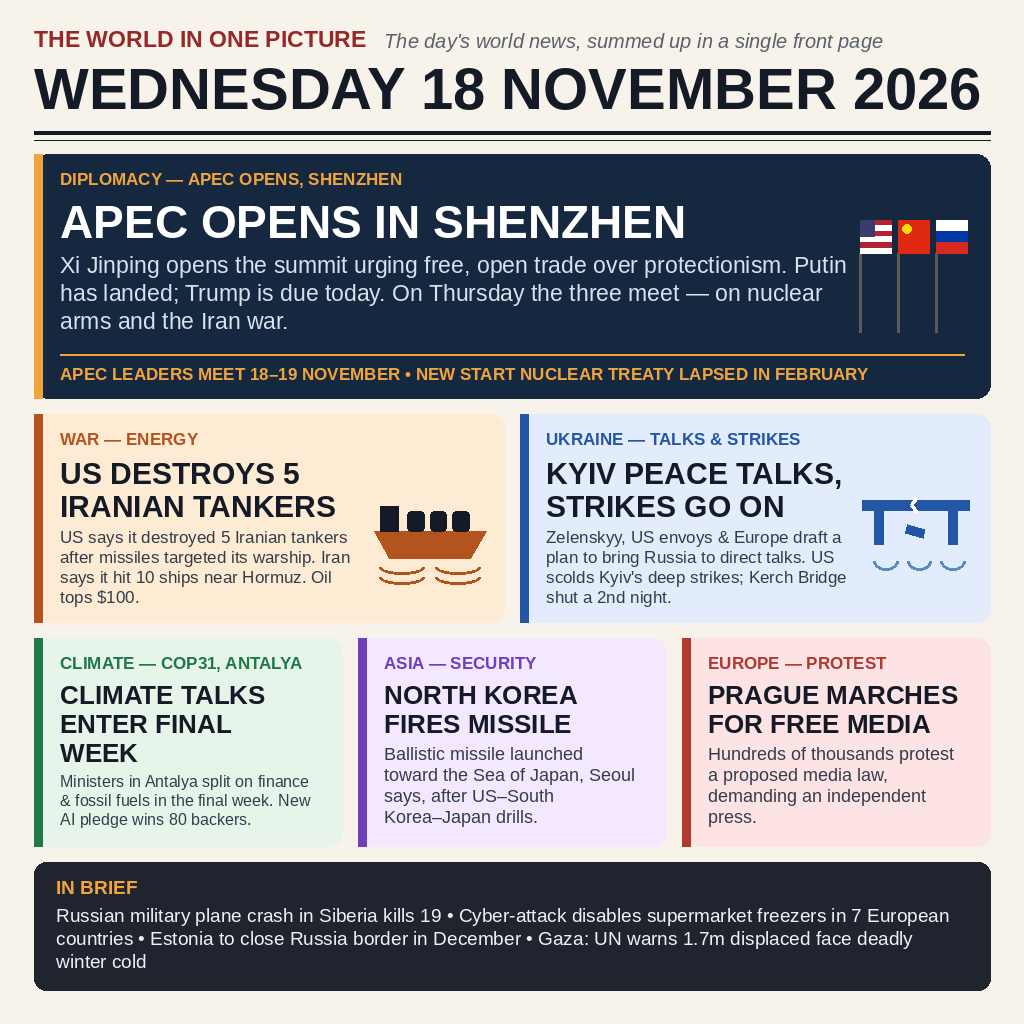
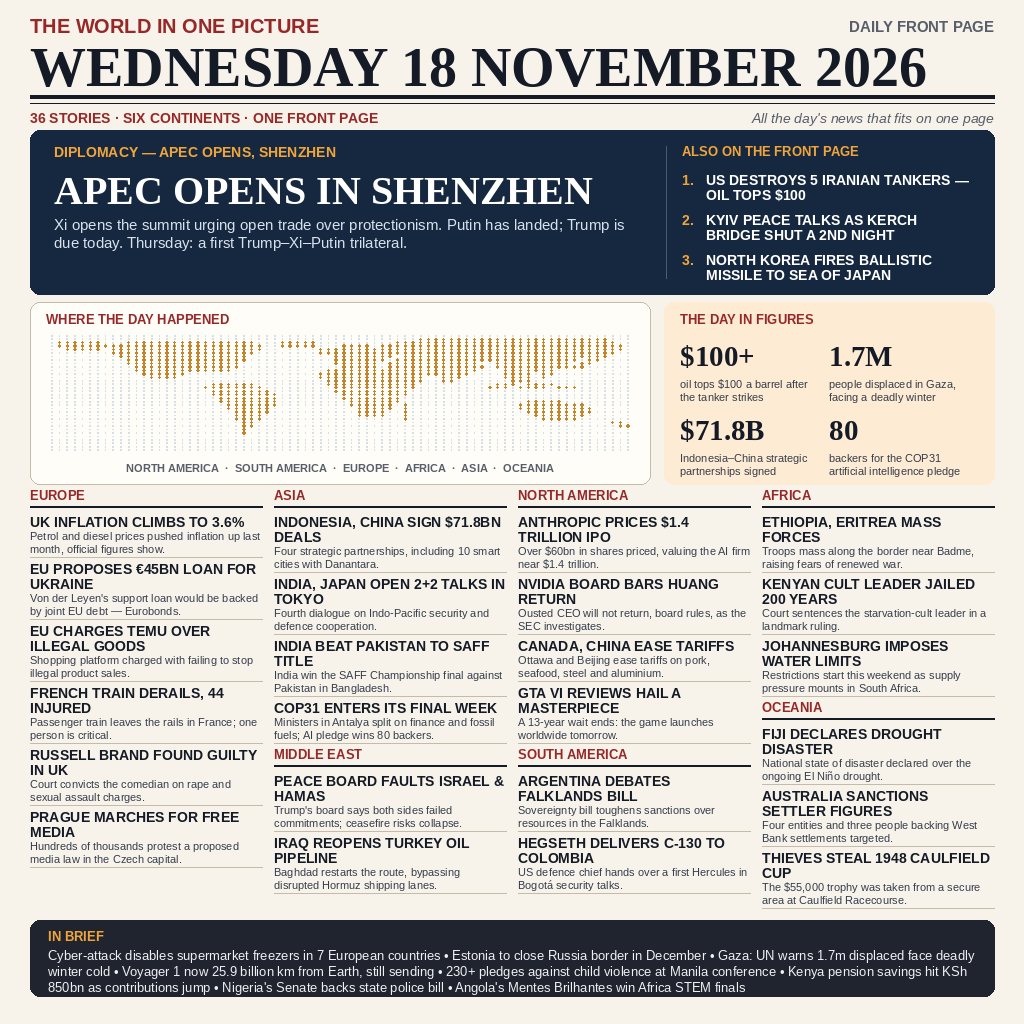
V2: dense front page — 36 stories, six continents, world map

diff --git a/README.md b/README.md
@@ -1,7 +1,9 @@
 # The World in One Picture — Wednesday 18 November 2026
 
 A one-image front page summing up the world news of **Wednesday 18 November 2026**,
-entered in make.fun's [News Image 18 Nov](https://make.fun) competition.
+entered in make.fun's News Image competition for that day. Version 2: a denser
+front page in the style of the boards' leading entries — **36 stories, six
+continents, one page**, with a dot-matrix world map and a day-in-figures box.
 
 ![Competition](https://make.fun/badge/news-image-20261118.svg)
 ![Rank](https://make.fun/badge/news-image-20261118/Shadowcell05/news-image-20261118/rank.svg)
@@ -9,13 +11,19 @@ entered in make.fun's [News Image 18 Nov](https://make.fun) competition.
 
 ## What's in the picture
 
-- **Lead:** APEC opens in Shenzhen — Xi urges free, open trade; Putin has landed
-  and Trump is due, ahead of Thursday's first Trump–Xi–Putin trilateral.
-- The US destroys five Iranian oil tankers; Kyiv peace talks run while strikes
-  go on; COP31 climate talks enter their final week in Antalya.
-- North Korea fires a missile; Prague marches for free media — plus an In Brief
-  strip (Siberia plane crash, supermarket freezer cyber-attack, Estonia border,
-  Gaza winter warning).
+- **Lead:** APEC opens in Shenzhen — Xi urges open trade, Putin has landed,
+  Trump is due, and a first Trump–Xi–Putin trilateral is set for Thursday.
+- **Also on the front page:** the US destroys 5 Iranian tankers as oil tops $100;
+  Kyiv peace talks while the Kerch Bridge stays shut; North Korea fires a
+  ballistic missile toward the Sea of Japan.
+- **Front page grid, by continent:** UK inflation climbs to 3.6%, the EU proposes
+  a €45bn loan for Ukraine, Indonesia and China sign $71.8bn in deals, COP31
+  enters its final week, Anthropic prices a $1.4 trillion IPO, a Kenyan cult
+  leader is jailed for 200 years, Fiji declares a drought disaster — and more.
+- **The day in figures:** oil above $100, 1.7M displaced in Gaza, $71.8B in
+  Indonesia–China deals, 80 backers for the COP31 AI pledge.
+- **In brief:** the supermarket-freezer cyber-attack, Estonia's border closure,
+  Voyager 1 at 25.9 billion km, Nigeria's state police bill.
 
 ## How it runs
 
